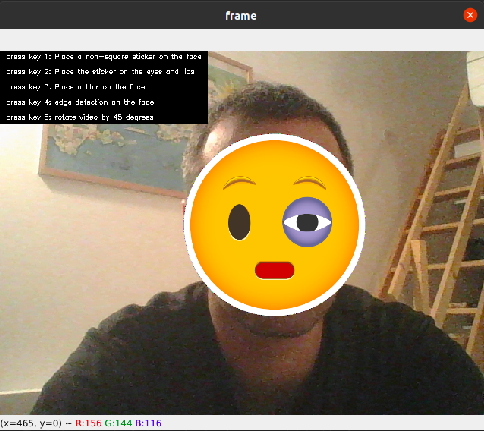
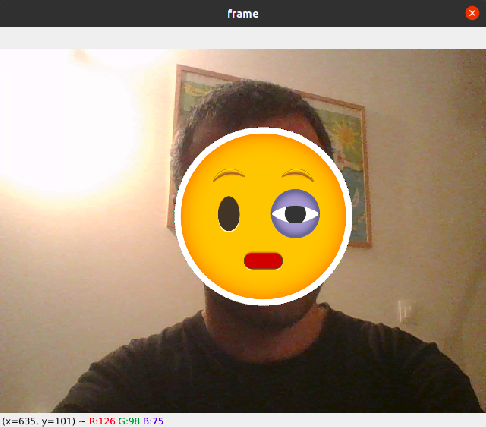
update

diff --git a/1.py b/1.py
@@ -49,12 +49,12 @@ while True:
         break
 
     
-    cv.rectangle(frame, (0, 0), (275, 95), (0,0,0), -1)
-    cv.putText(frame, 'press key 1: Place a non-square sticker on the face', (10, 10), font, fontSize, textColor, thickness)
-    cv.putText(frame, 'press key 2: Place the sticker on the eyes and lips', (10, 30), font, fontSize, textColor, thickness)
-    cv.putText(frame, 'press key 3: Place a blur on the face',               (10, 50), font, fontSize, textColor, thickness)
-    cv.putText(frame, 'press key 4: edge detection on the face',             (10, 70), font, fontSize, textColor, thickness)
-    cv.putText(frame, 'press key 5: rotate video by 45 degrees',             (10, 90), font, fontSize, textColor, thickness)
+    #cv.rectangle(frame, (0, 0), (275, 95), (0,0,0), -1)
+    #cv.putText(frame, 'press key 1: Place a non-square sticker on the face', (10, 10), font, fontSize, textColor, thickness)
+    #cv.putText(frame, 'press key 2: Place the sticker on the eyes and lips', (10, 30), font, fontSize, textColor, thickness)
+    #cv.putText(frame, 'press key 3: Place a blur on the face',               (10, 50), font, fontSize, textColor, thickness)
+    #cv.putText(frame, 'press key 4: edge detection on the face',             (10, 70), font, fontSize, textColor, thickness)
+    #cv.putText(frame, 'press key 5: rotate video by 45 degrees',             (10, 90), font, fontSize, textColor, thickness)
     
     key = cv.waitKey(100)
 
